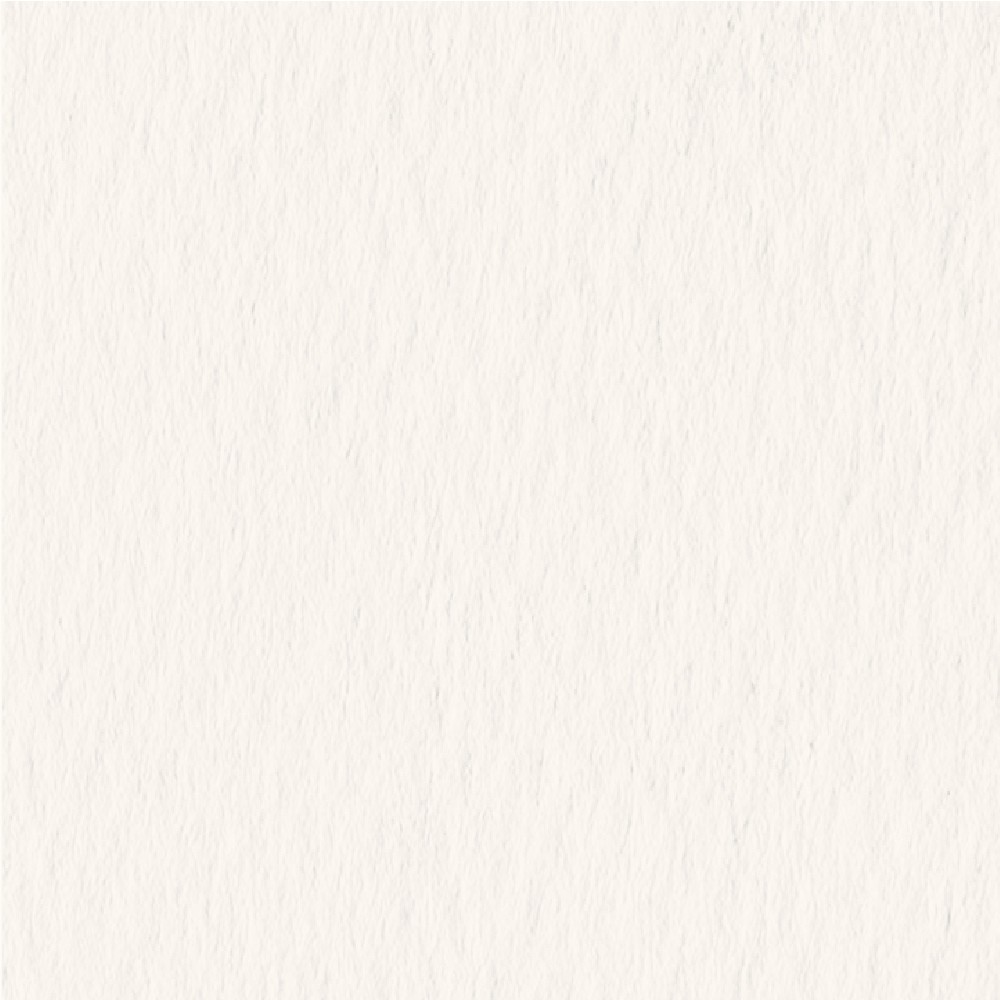
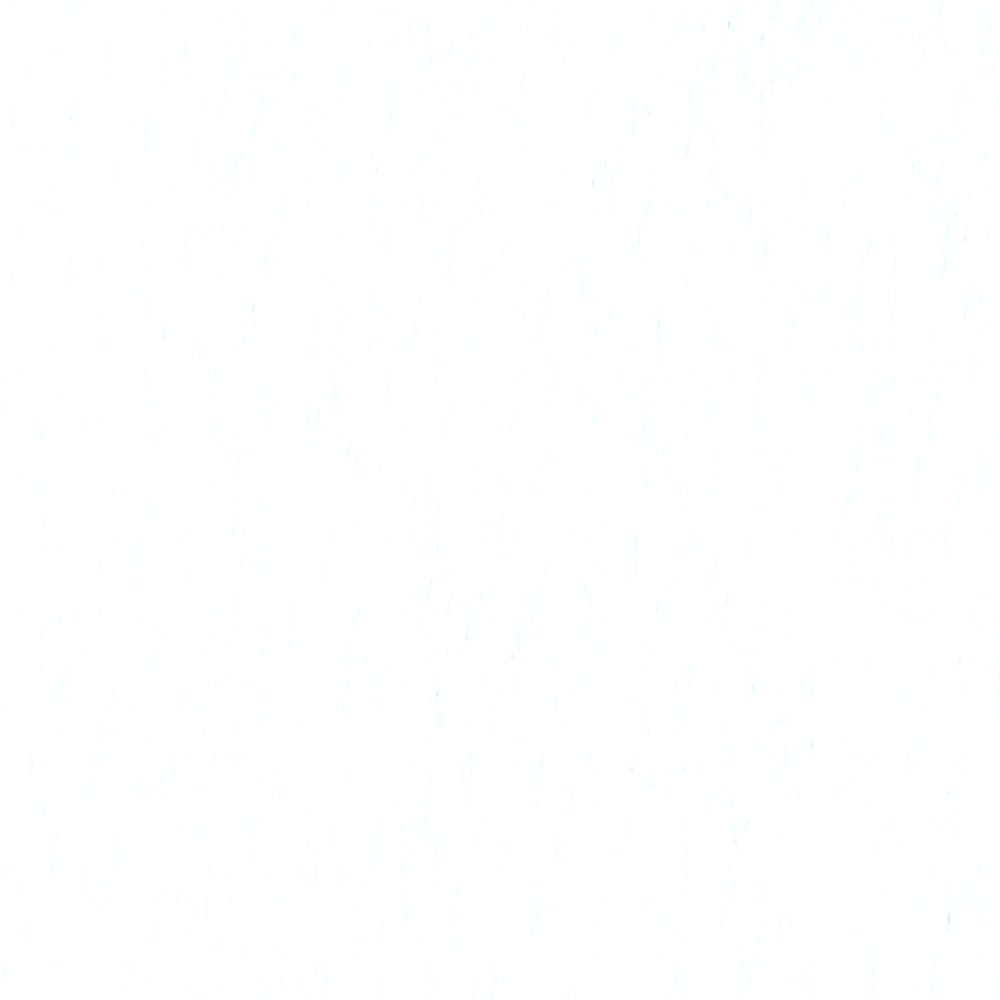
Aplica textura na capa e boas-vindas; corrige tom amarelado e suaviza opacidade
- Corrige a cor da textura de papel algodao (estava amarelada, agora
  neutra/fria)
- Adiciona camada branca a 60% por cima da textura em todas as
  aplicacoes (body, capa, boas-vindas) para ficar mais suave
- Aplica a textura explicitamente na capa (secao do brasao) e na
  secao do texto de boas-vindas, que tinham fundo branco solido
  cobrindo a textura do body

diff --git a/ROSA E MAXIMILIAN.html b/ROSA E MAXIMILIAN.html
@@ -102,9 +102,9 @@
     line-height: 1.75;
     color: var(--color-ink);
     background-color: var(--color-off-white);
-    background-image: url('assets/geral/papel-algodao-tile.jpg');
-    background-repeat: repeat;
-    background-size: 700px 700px;
+    background-image: linear-gradient(rgba(255, 255, 255, 0.6), rgba(255, 255, 255, 0.6)), url('assets/geral/papel-algodao-tile.jpg');
+    background-repeat: no-repeat, repeat;
+    background-size: auto, 700px 700px;
     -webkit-font-smoothing: antialiased;
     -moz-osx-font-smoothing: grayscale;
   }
@@ -668,6 +668,13 @@
   /* ============================================================
      HERO
      ============================================================ */
+  .textured-bg {
+    background-color: var(--color-white);
+    background-image: linear-gradient(rgba(255, 255, 255, 0.6), rgba(255, 255, 255, 0.6)), url('assets/geral/papel-algodao-tile.jpg');
+    background-repeat: no-repeat, repeat;
+    background-size: auto, 700px 700px;
+  }
+
   .hero {
     position: relative;
     min-height: 100vh;
@@ -675,7 +682,6 @@
     flex-direction: column;
     align-items: center;
     justify-content: center;
-    background-color: var(--color-white);
     color: var(--color-ink);
     text-align: center;
     overflow: hidden;
@@ -1576,7 +1582,7 @@
 <main id="main">
 
   <!-- ============ HOME / CAPA ============ -->
-  <section class="hero" id="home">
+  <section class="hero textured-bg" id="home">
     <div class="hero-content">
       <img src="assets/geral/BRASÃO@2x.png" alt="" aria-hidden="true" class="hero-brasao" />
       <h1><img src="assets/geral/ASSINATURA@2x.png" alt="Maximilian e Rosa" class="hero-assinatura" data-i18n-attr="alt:a11y.coupleNames" /></h1>
@@ -1612,7 +1618,7 @@
   </section>
 
   <!-- ============ BOAS-VINDAS ============ -->
-  <section class="section section--alt" id="boas-vindas">
+  <section class="section section--alt textured-bg" id="boas-vindas">
     <img src="assets/geral/coqueiro-esquerda.png" alt="" aria-hidden="true" class="welcome-coqueiro welcome-coqueiro--left" />
     <img src="assets/geral/coqueiro-direita.png" alt="" aria-hidden="true" class="welcome-coqueiro welcome-coqueiro--right" />
     <div class="container">

diff --git a/index.html b/index.html
@@ -102,9 +102,9 @@
     line-height: 1.75;
     color: var(--color-ink);
     background-color: var(--color-off-white);
-    background-image: url('assets/geral/papel-algodao-tile.jpg');
-    background-repeat: repeat;
-    background-size: 700px 700px;
+    background-image: linear-gradient(rgba(255, 255, 255, 0.6), rgba(255, 255, 255, 0.6)), url('assets/geral/papel-algodao-tile.jpg');
+    background-repeat: no-repeat, repeat;
+    background-size: auto, 700px 700px;
     -webkit-font-smoothing: antialiased;
     -moz-osx-font-smoothing: grayscale;
   }
@@ -668,6 +668,13 @@
   /* ============================================================
      HERO
      ============================================================ */
+  .textured-bg {
+    background-color: var(--color-white);
+    background-image: linear-gradient(rgba(255, 255, 255, 0.6), rgba(255, 255, 255, 0.6)), url('assets/geral/papel-algodao-tile.jpg');
+    background-repeat: no-repeat, repeat;
+    background-size: auto, 700px 700px;
+  }
+
   .hero {
     position: relative;
     min-height: 100vh;
@@ -675,7 +682,6 @@
     flex-direction: column;
     align-items: center;
     justify-content: center;
-    background-color: var(--color-white);
     color: var(--color-ink);
     text-align: center;
     overflow: hidden;
@@ -1576,7 +1582,7 @@
 <main id="main">
 
   <!-- ============ HOME / CAPA ============ -->
-  <section class="hero" id="home">
+  <section class="hero textured-bg" id="home">
     <div class="hero-content">
       <img src="assets/geral/BRASÃO@2x.png" alt="" aria-hidden="true" class="hero-brasao" />
       <h1><img src="assets/geral/ASSINATURA@2x.png" alt="Maximilian e Rosa" class="hero-assinatura" data-i18n-attr="alt:a11y.coupleNames" /></h1>
@@ -1612,7 +1618,7 @@
   </section>
 
   <!-- ============ BOAS-VINDAS ============ -->
-  <section class="section section--alt" id="boas-vindas">
+  <section class="section section--alt textured-bg" id="boas-vindas">
     <img src="assets/geral/coqueiro-esquerda.png" alt="" aria-hidden="true" class="welcome-coqueiro welcome-coqueiro--left" />
     <img src="assets/geral/coqueiro-direita.png" alt="" aria-hidden="true" class="welcome-coqueiro welcome-coqueiro--right" />
     <div class="container">
